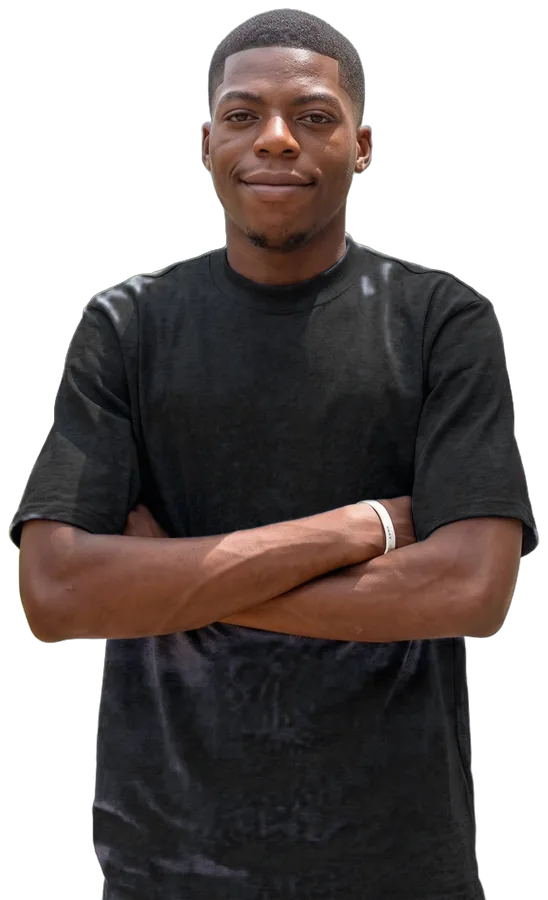
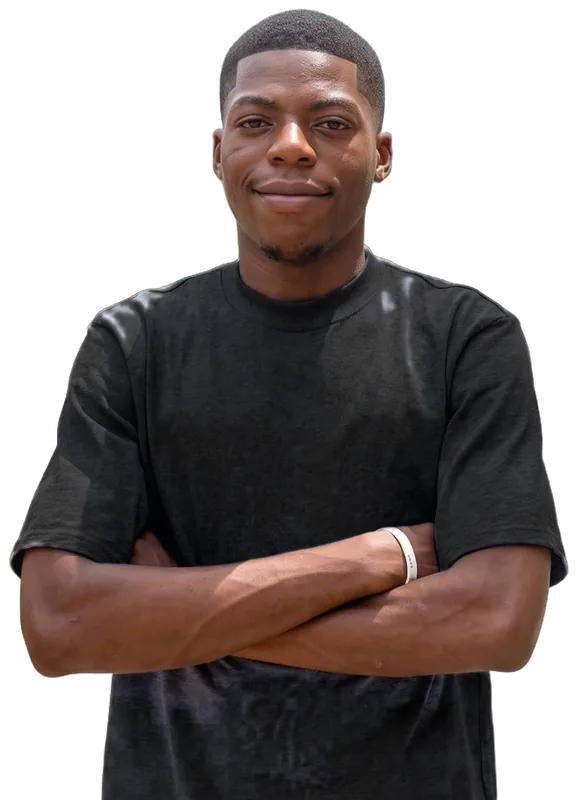
Show the workspace on phones; trim the portrait
- Phones get their own sharp, portrait-orientation desk photo (the wide desktop crop showed
  only dark wall on a tall screen) and a lighter darkening gradient
- Portrait cropped higher on the shirt and enlarged; code card moved off the face
- Regenerated OG image with the new crop

diff --git a/src/components/Hero.jsx b/src/components/Hero.jsx
@@ -33,14 +33,22 @@ export default function Hero() {
     >
       {/* Background: Emmanuel's own desk setup in black and grey; the purple theme tints it. */}
       <div className="absolute -inset-8 -z-20 transition-transform duration-300 ease-out" style={parallax(-14)}>
-        {/* Two pre-graded versions instead of a CSS blend (which repaints every frame). The purple one
-            is lazy, so it only downloads when the purple theme shows it. */}
-        <img src="/hero-bg.webp" alt="" aria-hidden="true" width="1600" height="1200" decoding="async" className="h-full w-full object-cover object-[30%_40%] [[data-theme=purple]_&]:hidden" />
-        <img src="/hero-bg-purple.webp" alt="" aria-hidden="true" width="1600" height="1200" loading="lazy" decoding="async" className="hidden h-full w-full object-cover object-[30%_40%] [[data-theme=purple]_&]:block" />
+        {/* Two pre-graded versions instead of a CSS blend (which repaints every frame); the purple
+            one is lazy, so it only downloads when the purple theme shows it. Phones get the full,
+            sharp portrait-orientation photo, since a wide crop squeezed onto a tall screen showed
+            only dark wall. */}
+        <picture>
+          <source media="(max-width: 1023px)" srcSet="/hero-bg-mobile.webp" />
+          <img src="/hero-bg.webp" alt="" aria-hidden="true" width="1600" height="1200" decoding="async" className="h-full w-full object-cover object-[30%_40%] max-lg:object-[center_35%] [[data-theme=purple]_&]:hidden" />
+        </picture>
+        <picture>
+          <source media="(max-width: 1023px)" srcSet="/hero-bg-mobile-purple.webp" />
+          <img src="/hero-bg-purple.webp" alt="" aria-hidden="true" width="1600" height="1200" loading="lazy" decoding="async" className="hidden h-full w-full object-cover object-[30%_40%] max-lg:object-[center_35%] [[data-theme=purple]_&]:block" />
+        </picture>
       </div>
       {/* The photo's left half is pre-blurred in the image file (cheaper than backdrop-filter);
           this gradient darkens it behind the text while the right half stays sharp. */}
-      <div className="absolute inset-0 -z-10 bg-[linear-gradient(90deg,color-mix(in_srgb,var(--bg)_80%,transparent)_0%,color-mix(in_srgb,var(--bg)_55%,transparent)_48%,transparent_75%)] max-lg:bg-[linear-gradient(180deg,color-mix(in_srgb,var(--bg)_65%,transparent)_0%,var(--bg)_100%)]"></div>
+      <div className="absolute inset-0 -z-10 bg-[linear-gradient(90deg,color-mix(in_srgb,var(--bg)_80%,transparent)_0%,color-mix(in_srgb,var(--bg)_55%,transparent)_48%,transparent_75%)] max-lg:bg-[linear-gradient(180deg,color-mix(in_srgb,var(--bg)_72%,transparent)_0%,color-mix(in_srgb,var(--bg)_55%,transparent)_45%,color-mix(in_srgb,var(--bg)_20%,transparent)_75%,var(--bg)_100%)]"></div>
       <div className="absolute inset-x-0 bottom-0 -z-10 h-40 bg-gradient-to-t from-bg to-transparent"></div>
       <div className="pointer-events-none absolute -top-40 -left-40 -z-10 h-[520px] w-[520px] rounded-full bg-glow opacity-25 blur-[120px]"></div>
 
@@ -119,16 +127,16 @@ export default function Hero() {
             <img
               src="/hero-portrait.webp"
               alt="Emmanuel Ngene, software developer"
-              width="548"
-              height="900"
+              width="578"
+              height="800"
               fetchpriority="high"
               decoding="async"
-              className="relative h-auto w-[78%] animate-[riseIn_0.9s_0.15s_cubic-bezier(0.22,1,0.36,1)_both] [mask-image:linear-gradient(to_bottom,#000_82%,transparent)]"
+              className="relative h-auto w-[86%] animate-[riseIn_0.9s_0.15s_cubic-bezier(0.22,1,0.36,1)_both] [mask-image:linear-gradient(to_bottom,#000_82%,transparent)]"
             />
           </div>
 
           <div
-            className="absolute top-[30%] -right-[6%] w-[62%] min-w-[230px] transition-transform duration-300 ease-out max-sm:-right-[2%] max-sm:top-[50%] max-sm:w-[72%] max-sm:min-w-0"
+            className="absolute top-[55%] -right-[6%] w-[62%] min-w-[230px] transition-transform duration-300 ease-out max-sm:-right-[2%] max-sm:top-[58%] max-sm:w-[72%] max-sm:min-w-0"
             style={parallax(22)}
           >
             <div className="animate-[float_6s_ease-in-out_1.2s_infinite]">

diff --git a/CLAUDE.md b/CLAUDE.md
@@ -56,7 +56,8 @@ There is no lint or test tooling.
   to match prerendered HTML), `useActiveSection`, `useReveal`, `useParallax`.
 - **`public/`** is copied to the site root: icons (`favicon.ico`, `icon.svg`, `apple-touch-icon.png`,
   `icon-*.png`), `og-image.png`, `hero-portrait.webp` (background-removed hero photo),
-  `hero-bg.webp` + `hero-bg-purple.webp` (desk photo, left half pre-blurred; one per theme),
+  `hero-bg*.webp` (desk photo per theme: wide crop with left half pre-blurred for desktop,
+  full portrait crop `-mobile` for phones),
   `emmanuel-ngene.jpg` (schema photo), `robots.txt`,
   `site.webmanifest`, and the IndexNow key file (`<32 hex>.txt`).
 - **`src/assets/screens/`** holds 800x500 WebP screenshots of live project sites.
